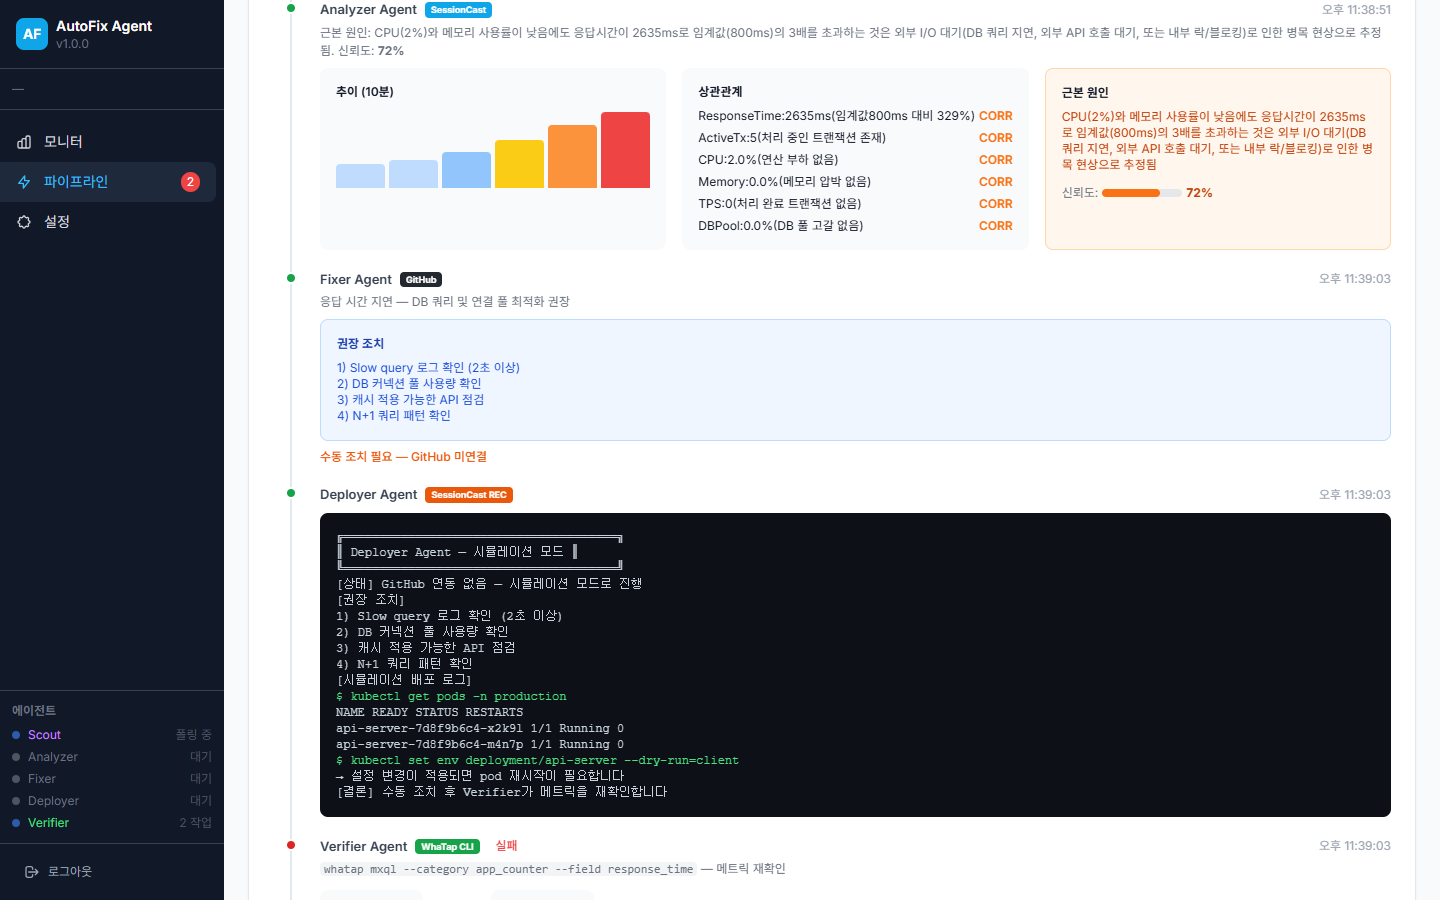
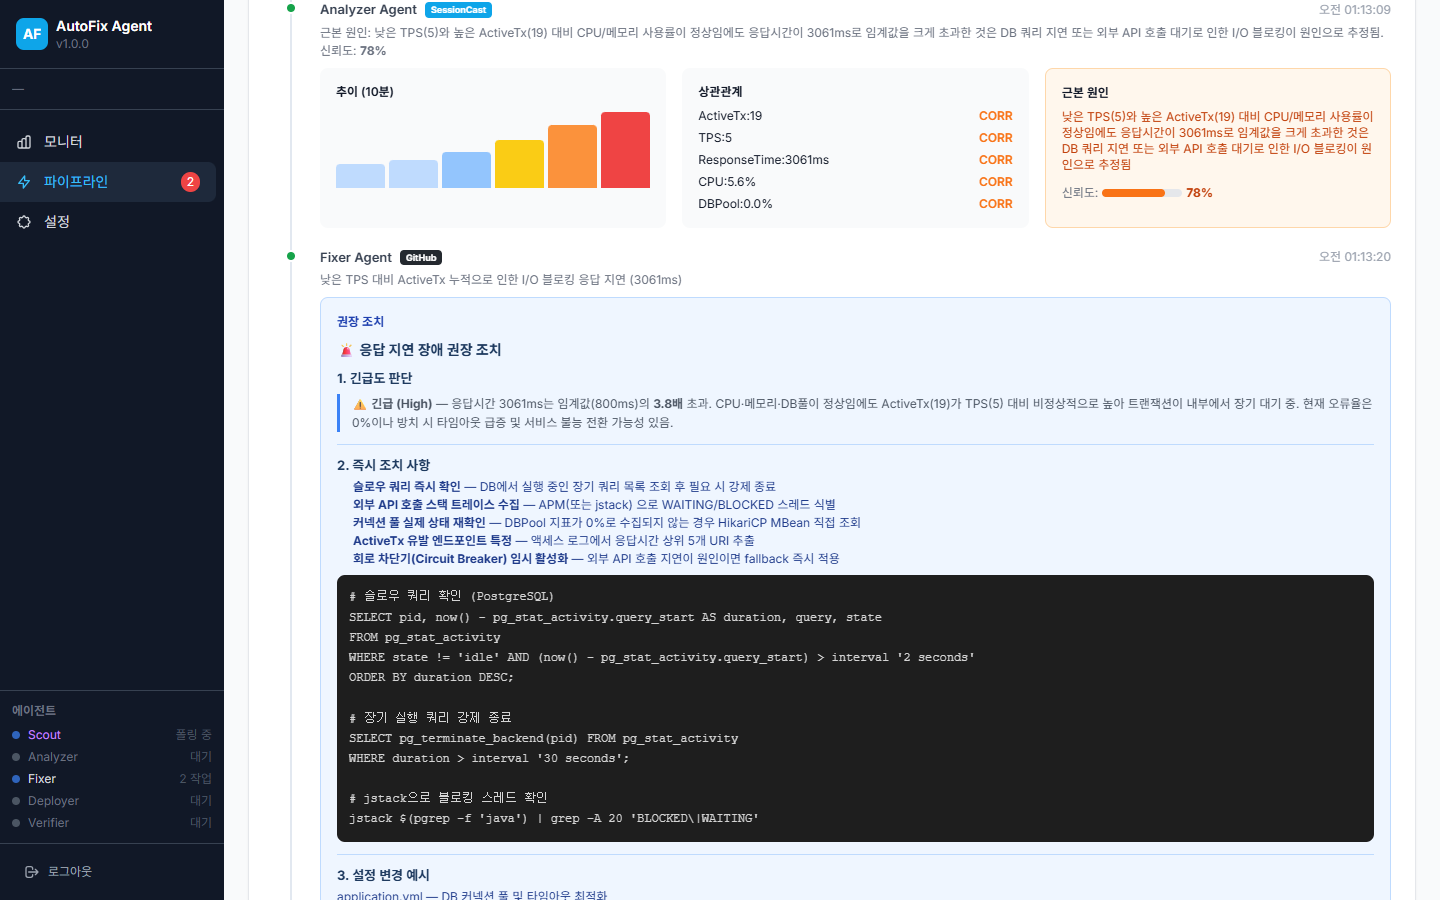
Fixer Agent: LLM이 Tailwind HTML UI를 직접 생성하도록 변경
- FixerAgent 프롬프트를 마크다운 → HTML 출력으로 전환
- LLM이 details/summary 접이식 섹션, 메트릭 카드, 컬러 배지,
  코드 블록을 Tailwind CSS로 직접 디자인
- pipeline-detail.html에서 DOMPurify로 HTML 직접 렌더링
- styles.css에 AI 렌더링 컨텐츠 기본 스타일 추가
- 다양한 케이스 스크린샷 38장+ 업데이트

diff --git a/src/main/resources/static/styles.css b/src/main/resources/static/styles.css
@@ -90,18 +90,110 @@ a.no-underline:hover{text-decoration:none}
 [data-tip].tip-down::after{bottom:auto;top:calc(100% + 8px)}
 [data-tip].tip-down::before{bottom:auto;top:calc(100% + 2px);border-top-color:transparent;border-bottom-color:#1e293b}
 
-/* Markdown content from LLM */
-.markdown-content h1,.markdown-content h2,.markdown-content h3{font-weight:700;margin:12px 0 6px;color:#1e3a5f}
-.markdown-content h1{font-size:16px}.markdown-content h2{font-size:14px}.markdown-content h3{font-size:13px}
-.markdown-content p{margin:4px 0;line-height:1.6}
-.markdown-content ul,.markdown-content ol{margin:4px 0 4px 16px;padding:0}
-.markdown-content li{margin:2px 0}
-.markdown-content code{background:#dbeafe;padding:1px 4px;border-radius:3px;font-family:'Courier New',monospace;font-size:12px}
-.markdown-content pre{background:#1e1e1e;color:#d4d4d4;padding:12px;border-radius:8px;overflow-x:auto;margin:8px 0;font-size:12px;line-height:1.6}
-.markdown-content pre code{background:transparent;color:inherit;padding:0}
-.markdown-content table{width:100%;border-collapse:collapse;margin:8px 0;font-size:12px}
-.markdown-content th{background:#dbeafe;font-weight:600;text-align:left;padding:6px 8px;border:1px solid #bfdbfe}
-.markdown-content td{padding:6px 8px;border:1px solid #bfdbfe}
-.markdown-content blockquote{border-left:3px solid #3b82f6;padding-left:12px;color:#4b5563;margin:8px 0}
-.markdown-content strong{font-weight:700}
-.markdown-content hr{border:none;border-top:1px solid #bfdbfe;margin:12px 0}
+/* ─── Enhanced Markdown / LLM Recommendation Card ─── */
+
+/* Recommendation wrapper */
+.fix-card{background:#fff;border:1px solid #e2e8f0;border-radius:16px;overflow:hidden;box-shadow:0 2px 8px rgba(0,0,0,.04)}
+.fix-card-header{display:flex;align-items:center;gap:10px;padding:14px 20px;border-bottom:1px solid #f1f5f9}
+.fix-card-header .fix-icon{width:32px;height:32px;border-radius:10px;display:flex;align-items:center;justify-content:center;font-size:16px;flex-shrink:0}
+.fix-card-header .fix-title{font-size:15px;font-weight:700;color:#0f172a}
+.fix-card-header .fix-subtitle{font-size:11px;color:#94a3b8;font-weight:500}
+.fix-card-body{padding:16px 20px}
+
+/* Section cards inside recommendation */
+.fix-section{border:1px solid #f1f5f9;border-radius:12px;margin-bottom:12px;overflow:hidden;transition:all .15s}
+.fix-section:last-child{margin-bottom:0}
+.fix-section-head{display:flex;align-items:center;gap:8px;padding:10px 14px;background:#f8fafc;cursor:pointer;user-select:none}
+.fix-section-head:hover{background:#f1f5f9}
+.fix-section-head .sec-icon{width:24px;height:24px;border-radius:6px;display:flex;align-items:center;justify-content:center;font-size:12px;flex-shrink:0}
+.fix-section-head .sec-title{font-size:13px;font-weight:600;color:#334155}
+.fix-section-head .sec-chevron{margin-left:auto;color:#94a3b8;transition:transform .2s;font-size:12px}
+.fix-section-head .sec-chevron.open{transform:rotate(180deg)}
+.fix-section-body{padding:12px 14px;display:none}
+.fix-section-body.open{display:block}
+
+/* Severity badge inside card */
+.severity-pill{display:inline-flex;align-items:center;gap:4px;padding:3px 10px;border-radius:20px;font-size:11px;font-weight:700;letter-spacing:.3px}
+.severity-pill.critical{background:#fef2f2;color:#dc2626;border:1px solid #fecaca}
+.severity-pill.high{background:#fff7ed;color:#ea580c;border:1px solid #fed7aa}
+.severity-pill.medium{background:#fffbeb;color:#d97706;border:1px solid #fde68a}
+.severity-pill.low{background:#f0fdf4;color:#16a34a;border:1px solid #bbf7d0}
+
+/* Markdown content inside sections */
+.markdown-content{font-size:13px;color:#334155;line-height:1.7}
+.markdown-content h1,.markdown-content h2,.markdown-content h3{font-weight:700;margin:14px 0 6px;color:#0f172a}
+.markdown-content h1{font-size:16px;padding-bottom:6px;border-bottom:2px solid #e2e8f0}
+.markdown-content h2{font-size:14px}
+.markdown-content h3{font-size:13px}
+.markdown-content p{margin:6px 0;line-height:1.7}
+.markdown-content ul,.markdown-content ol{margin:6px 0 6px 8px;padding:0 0 0 12px}
+.markdown-content li{margin:3px 0;padding-left:2px}
+.markdown-content li::marker{color:#94a3b8}
+.markdown-content code{background:#f1f5f9;color:#0369a1;padding:2px 6px;border-radius:4px;font-family:'JetBrains Mono','Fira Code','Courier New',monospace;font-size:11.5px;border:1px solid #e2e8f0}
+
+/* Code blocks — dark with lang label */
+.markdown-content pre{position:relative;background:#0f172a;color:#e2e8f0;padding:16px;border-radius:10px;overflow-x:auto;margin:10px 0;font-size:12px;line-height:1.7;border:1px solid #1e293b}
+.markdown-content pre code{background:transparent;color:inherit;padding:0;border:none;font-size:12px}
+.markdown-content pre .lang-label{position:absolute;top:0;right:0;background:#334155;color:#94a3b8;font-size:10px;font-weight:600;padding:2px 10px;border-radius:0 10px 0 6px;text-transform:uppercase;letter-spacing:.5px}
+
+/* Syntax colors inside pre */
+.markdown-content pre .kw{color:#7dd3fc}
+.markdown-content pre .str{color:#86efac}
+.markdown-content pre .num{color:#fbbf24}
+.markdown-content pre .cmt{color:#64748b;font-style:italic}
+.markdown-content pre .fn{color:#c4b5fd}
+.markdown-content pre .op{color:#f9a8d4}
+
+/* Tables — styled with status colors */
+.markdown-content table{width:100%;border-collapse:separate;border-spacing:0;margin:10px 0;font-size:12px;border-radius:8px;overflow:hidden;border:1px solid #e2e8f0}
+.markdown-content th{background:#f8fafc;font-weight:600;text-align:left;padding:8px 12px;color:#475569;border-bottom:2px solid #e2e8f0;font-size:11px;text-transform:uppercase;letter-spacing:.3px}
+.markdown-content td{padding:8px 12px;border-bottom:1px solid #f1f5f9;color:#334155}
+.markdown-content tr:last-child td{border-bottom:none}
+.markdown-content tr:hover td{background:#f8fafc}
+.markdown-content td:has(.status-dot){text-align:center}
+
+/* Blockquote → alert callout */
+.markdown-content blockquote{border-left:none;border-radius:10px;padding:12px 14px;margin:10px 0;display:flex;gap:10px;align-items:flex-start;font-size:12px;line-height:1.6}
+.markdown-content blockquote.alert-warn{background:#fffbeb;border:1px solid #fde68a;color:#92400e}
+.markdown-content blockquote.alert-danger{background:#fef2f2;border:1px solid #fecaca;color:#991b1b}
+.markdown-content blockquote.alert-info{background:#eff6ff;border:1px solid #bfdbfe;color:#1e40af}
+.markdown-content blockquote.alert-success{background:#f0fdf4;border:1px solid #bbf7d0;color:#166534}
+.markdown-content blockquote::before{font-size:16px;flex-shrink:0;line-height:1}
+.markdown-content blockquote.alert-warn::before{content:'⚠'}
+.markdown-content blockquote.alert-danger::before{content:'🔴'}
+.markdown-content blockquote.alert-info::before{content:'💡'}
+.markdown-content blockquote.alert-success::before{content:'✅'}
+.markdown-content blockquote p{margin:0}
+
+/* Bold text with semantic color */
+.markdown-content strong{font-weight:700;color:#0f172a}
+
+.markdown-content hr{border:none;border-top:1px solid #e2e8f0;margin:16px 0}
+
+/* Status dots in tables */
+.status-dot{display:inline-block;width:8px;height:8px;border-radius:50%;margin-right:4px;vertical-align:middle}
+.status-dot.red{background:#dc2626}.status-dot.orange{background:#ea580c}.status-dot.yellow{background:#d97706}.status-dot.green{background:#16a34a}.status-dot.gray{background:#94a3b8}
+
+/* AI-rendered content — details/summary styling */
+.ai-rendered details{border:1px solid #e2e8f0;border-radius:10px;margin-bottom:10px;overflow:hidden;transition:all .15s}
+.ai-rendered details[open]{box-shadow:0 1px 4px rgba(0,0,0,.04)}
+.ai-rendered details summary{cursor:pointer;padding:10px 14px;background:#f8fafc;font-size:13px;font-weight:600;color:#334155;list-style:none;display:flex;align-items:center;gap:8px;transition:background .1s}
+.ai-rendered details summary:hover{background:#f1f5f9}
+.ai-rendered details summary::-webkit-details-marker{display:none}
+.ai-rendered details summary::after{content:'▸';margin-left:auto;color:#94a3b8;font-size:11px;transition:transform .15s}
+.ai-rendered details[open] summary::after{transform:rotate(90deg)}
+.ai-rendered details>:not(summary){padding:0 14px}
+.ai-rendered details>:last-child{padding-bottom:12px}
+
+/* AI code blocks */
+.ai-rendered pre{background:#0f172a !important;color:#e2e8f0 !important;border-radius:8px;padding:14px;margin:8px 0;font-size:12px;line-height:1.7;overflow-x:auto;border:1px solid #1e293b}
+.ai-rendered code{font-family:'JetBrains Mono','Fira Code','Courier New',monospace}
+.ai-rendered pre code{background:transparent !important;padding:0 !important;border:none !important;color:inherit !important;font-size:12px}
+.ai-rendered :not(pre)>code{background:#f1f5f9;color:#0369a1;padding:1px 5px;border-radius:4px;font-size:11.5px;border:1px solid #e2e8f0}
+
+/* AI tables */
+.ai-rendered table{width:100%;border-collapse:separate;border-spacing:0;font-size:12px;border-radius:8px;overflow:hidden;border:1px solid #e2e8f0;margin:8px 0}
+.ai-rendered th{background:#f8fafc;font-weight:600;text-align:left;padding:8px 10px;border-bottom:2px solid #e2e8f0;color:#475569;font-size:11px}
+.ai-rendered td{padding:7px 10px;border-bottom:1px solid #f1f5f9;color:#334155}
+.ai-rendered tr:last-child td{border-bottom:none}
+.ai-rendered tr:hover td{background:#fafbfc}

diff --git a/src/main/resources/static/pipeline-detail.html b/src/main/resources/static/pipeline-detail.html
@@ -204,7 +204,6 @@ function renderFixer(p, cls) {
     p.fix.diffs.forEach(d => {
       h += `<div class="code-editor p-5 rounded-xl overflow-x-auto mb-3 text-sm" style="line-height:1.8">`;
       h += `<div class="text-gray-500 mb-2">// ${esc(d.filePath)}</div>`;
-      // diff 내용 표시
       const diffLines = (d.diff || '').split('\n');
       diffLines.forEach(line => {
         if (line.startsWith('-') || line.startsWith('→') || line.includes('→')) {
@@ -224,18 +223,7 @@ function renderFixer(p, cls) {
   } else if (p.fix.type === 'SCRIPT') {
     h += `<div class="stage-summary">Auto-matched rule: ${esc(p.issueType)} → <code class="bg-gray-100 px-1 rounded text-xs">${esc(p.fix.scriptCommand || p.fix.description)}</code></div>`;
   } else if (p.fix.type === 'CONFIG_CHANGE') {
-    h += `<div class="stage-summary mb-2">${esc(p.fix.description)}</div>`;
-    if (p.fix.recommendation) {
-      const rawMd = p.fix.recommendation;
-      const rendered = DOMPurify.sanitize(marked.parse(rawMd));
-      h += `<div class="stage-content"><div class="bg-blue-50 border border-blue-200 rounded-lg p-4 text-xs">`;
-      h += `<div class="font-semibold text-blue-800 mb-2">권장 조치</div>`;
-      h += `<div class="markdown-content text-blue-900">${rendered}</div>`;
-      h += `</div></div>`;
-    }
-    if (!p.fix.autoFixAvailable) {
-      h += `<div class="mt-2 text-xs text-orange-600 font-medium">수동 조치 필요 — GitHub 미연결</div>`;
-    }
+    h += renderFixerCard(p, cls);
   } else {
     h += `<div class="stage-summary">${esc(p.fix.description)}</div>`;
   }
@@ -249,6 +237,57 @@ function renderFixer(p, cls) {
     h += `</div>`;
   }
 
+  return h;
+}
+
+/* ── AI-Rendered HTML Fixer Card ── */
+function renderFixerCard(p, cls) {
+  const raw = p.fix.recommendation || '';
+  if (!raw) return `<div class="stage-summary">${esc(p.fix.description)}</div>`;
+
+  // Check if the recommendation is HTML (from LLM) or plain text (fallback)
+  const isHtml = raw.includes('<') && (raw.includes('</div>') || raw.includes('</details>') || raw.includes('</table>') || raw.includes('</p>'));
+
+  let rendered;
+  if (isHtml) {
+    // AI-generated HTML: sanitize but preserve Tailwind classes and details/summary
+    rendered = DOMPurify.sanitize(raw, {
+      ADD_TAGS: ['details', 'summary'],
+      ADD_ATTR: ['class', 'open', 'style'],
+      ALLOW_DATA_ATTR: false
+    });
+  } else {
+    // Fallback: markdown or plain text → use marked.js
+    rendered = DOMPurify.sanitize(marked.parse(raw));
+  }
+
+  let h = `<div class="stage-content">`;
+
+  // Card wrapper
+  h += `<div class="fix-card">`;
+
+  // Header
+  h += `<div class="fix-card-header">`;
+  h += `<div class="fix-icon" style="background:#eff6ff;color:#2563eb">🔧</div>`;
+  h += `<div>`;
+  h += `<div class="fix-title">${esc(p.fix.description)}</div>`;
+  h += `<div class="fix-subtitle">Fixer Agent · AI 생성 권장 조치</div>`;
+  h += `</div>`;
+  h += `</div>`;
+
+  // Body — AI-rendered HTML injected directly
+  h += `<div class="fix-card-body ai-rendered">${rendered}</div>`;
+
+  h += `</div>`; // fix-card
+
+  if (!p.fix.autoFixAvailable) {
+    h += `<div class="mt-3 flex items-center gap-2 text-xs text-gray-500">`;
+    h += `<span class="inline-block w-1.5 h-1.5 rounded-full bg-orange-400"></span>`;
+    h += `수동 조치 필요 — GitHub 미연결`;
+    h += `</div>`;
+  }
+
+  h += `</div>`; // stage-content
   return h;
 }
 

diff --git a/src/main/java/io/sessioncast/autofix/agent/FixerAgent.java b/src/main/java/io/sessioncast/autofix/agent/FixerAgent.java
@@ -95,7 +95,8 @@ public class FixerAgent {
     }
 
     /**
-     * SessionCast Relay → LLM으로 마크다운 형식의 동적 수정안 생성
+     * SessionCast Relay → LLM으로 HTML 형식의 동적 수정안 UI 생성
+     * AI가 Tailwind CSS를 사용하여 시각적으로 풍부한 권장 조치 카드를 직접 렌더링
      */
     private void performLlmRecommendation(Pipeline pipeline) throws Exception {
         String issueType = pipeline.getIssueType();
@@ -122,20 +123,51 @@ public class FixerAgent {
                 - 메트릭: %s, 현재 값: %.1f, 임계값: %.1f
 
                 ## 요청사항
-                위 장애 분석 결과를 바탕으로 구체적인 수정 권장안을 작성해주세요.
+                위 장애 분석 결과를 바탕으로 **즉시 렌더링 가능한 HTML 카드**를 생성해주세요.
 
-                반드시 아래 JSON 형식으로 응답해주세요:
-                {"description": "1줄 요약 (50자 이내)", "recommendation": "마크다운 형식의 상세 권장 조치"}
+                반드시 아래 JSON 형식으로 응답하세요:
+                {"description": "1줄 요약 (50자 이내)", "recommendation": "<HTML코드>"}
 
-                recommendation 마크다운에 반드시 포함할 항목:
-                1. **긴급도 판단** — 현재 상황의 심각성 평가
-                2. **즉시 조치 사항** — 번호 목록으로 구체적 조치
-                3. **설정 변경 예시** — application.yml, JVM 옵션 등을 코드 블록으로
-                4. **근본 원인 해결** — 중장기 개선 방안
-                5. **모니터링 포인트** — 테이블 형식으로 (메트릭명 | 정상범위 | 현재값 | 상태)
+                ### HTML 작성 규칙
 
-                다양한 마크다운 요소(테이블, 코드 블록, 볼드, 리스트 등)를 활용하고,
-                현재 메트릭 값을 기반으로 상황에 맞는 구체적인 수치와 조치를 제시해주세요.
+                1. **Tailwind CSS 클래스**를 사용하세요 (CDN이 이미 로드됨).
+                2. recommendation 값은 `<div>` 안에 들어갈 **HTML 프래그먼트**입니다. `<html>`, `<head>`, `<body>` 태그는 절대 사용하지 마세요.
+                3. 반드시 아래 **5개 섹션**을 `<details open>/<summary>` 접이식 카드로 만드세요:
+
+                **섹션 1: 긴급도 판단**
+                - 상단에 심각도 배지 (bg-red-100 text-red-700, bg-yellow-100 text-yellow-700 등)
+                - 현재 수치와 임계값 비교를 굵은 글씨로
+                - 배경색이 있는 경고 박스 (bg-red-50 border border-red-200 rounded-xl p-4)
+
+                **섹션 2: 즉시 조치 사항**
+                - 각 조치 항목을 아이콘 + 카드로 (flex gap-3 items-start)
+                - 조치 설명 옆에 간단한 목적 설명
+
+                **섹션 3: 설정 변경 예시**
+                - 코드 블록: bg-gray-900 text-gray-100 rounded-lg p-4 font-mono text-xs overflow-x-auto
+                - 코드 위에 파일명/언어 라벨 (text-xs text-gray-400 mb-1)
+                - application.yml, JVM 옵션, SQL 등 실제 코드를 구체적으로
+                - 코드 안의 주석으로 설정 의도를 설명
+
+                **섹션 4: 근본 원인 해결**
+                - 중장기 개선 방안을 카드 리스트로
+
+                **섹션 5: 모니터링 포인트**
+                - 테이블: w-full text-xs border-collapse
+                - 헤더: bg-gray-50 font-semibold
+                - 상태 셀에 컬러 dot (inline-block w-2 h-2 rounded-full bg-red-500 등)
+                - 컬럼: 지표 | 현재값 | 정상범위 | 판단
+
+                ### 디자인 가이드라인
+                - `<details open>` 태그로 각 섹션을 감싸서 접이식으로
+                - `<summary>` 안에 아이콘 + 섹션명 + 간단 요약
+                - summary 스타일: cursor-pointer font-semibold text-sm py-2 flex items-center gap-2
+                - 색상 팔레트: slate/gray 계열 기본, red/orange/yellow/green으로 상태 표시
+                - 코드 블록 안에서 중요한 값은 `<span class="text-green-400">` 등으로 강조
+                - 전체를 `<div class="space-y-3">` 로 감싸세요
+                - 테이블에 현재 실제 메트릭 값을 반영하세요
+
+                현재 메트릭 값을 기반으로 상황에 맞는 **구체적인 수치와 명령어**를 제시하세요.
                 반드시 한국어로 응답하세요.
                 """,
                 issueType, rootCause, confidence * 100, correlatedMetrics,
@@ -146,9 +178,10 @@ public class FixerAgent {
         pipeline.addLog(Pipeline.Stage.FIXER, "LLM 수정안 요청 중... (provider: " + aiProvider + ")");
 
         var requestBuilder = LlmChatRequest.builder()
-                .system("당신은 서버 운영 전문가이자 SRE(Site Reliability Engineer)입니다. "
-                      + "장애 분석 결과를 바탕으로 구체적인 수정 권장안을 마크다운으로 작성합니다. "
-                      + "반드시 한국어로, JSON 형식으로 응답하세요.")
+                .system("당신은 서버 운영 전문가이자 SRE이면서, 동시에 프론트엔드 UI를 설계하는 디자이너입니다. "
+                      + "장애 분석 결과를 바탕으로 Tailwind CSS를 사용한 시각적으로 아름다운 HTML 카드를 직접 생성합니다. "
+                      + "반드시 한국어로, JSON 형식으로 응답하세요. "
+                      + "recommendation 필드에는 순수 HTML만 넣으세요 (마크다운이 아닌 HTML).")
                 .user(prompt);
         if (aiModel != null && !aiModel.isBlank()) {
             requestBuilder.model(aiModel);
@@ -180,10 +213,20 @@ public class FixerAgent {
     private FixProposal parseLlmFixResponse(String content, Pipeline pipeline) {
         try {
             String json = content;
-            int jsonStart = content.indexOf('{');
-            int jsonEnd = content.lastIndexOf('}');
+            // Extract JSON from possible markdown code fences
+            if (json.contains("```json")) {
+                int start = json.indexOf("```json") + 7;
+                int end = json.indexOf("```", start);
+                if (end > start) json = json.substring(start, end).trim();
+            } else if (json.contains("```")) {
+                int start = json.indexOf("```") + 3;
+                int end = json.indexOf("```", start);
+                if (end > start) json = json.substring(start, end).trim();
+            }
+            int jsonStart = json.indexOf('{');
+            int jsonEnd = json.lastIndexOf('}');
             if (jsonStart >= 0 && jsonEnd > jsonStart) {
-                json = content.substring(jsonStart, jsonEnd + 1);
+                json = json.substring(jsonStart, jsonEnd + 1);
             }
 
             var mapper = new com.fasterxml.jackson.databind.ObjectMapper();
